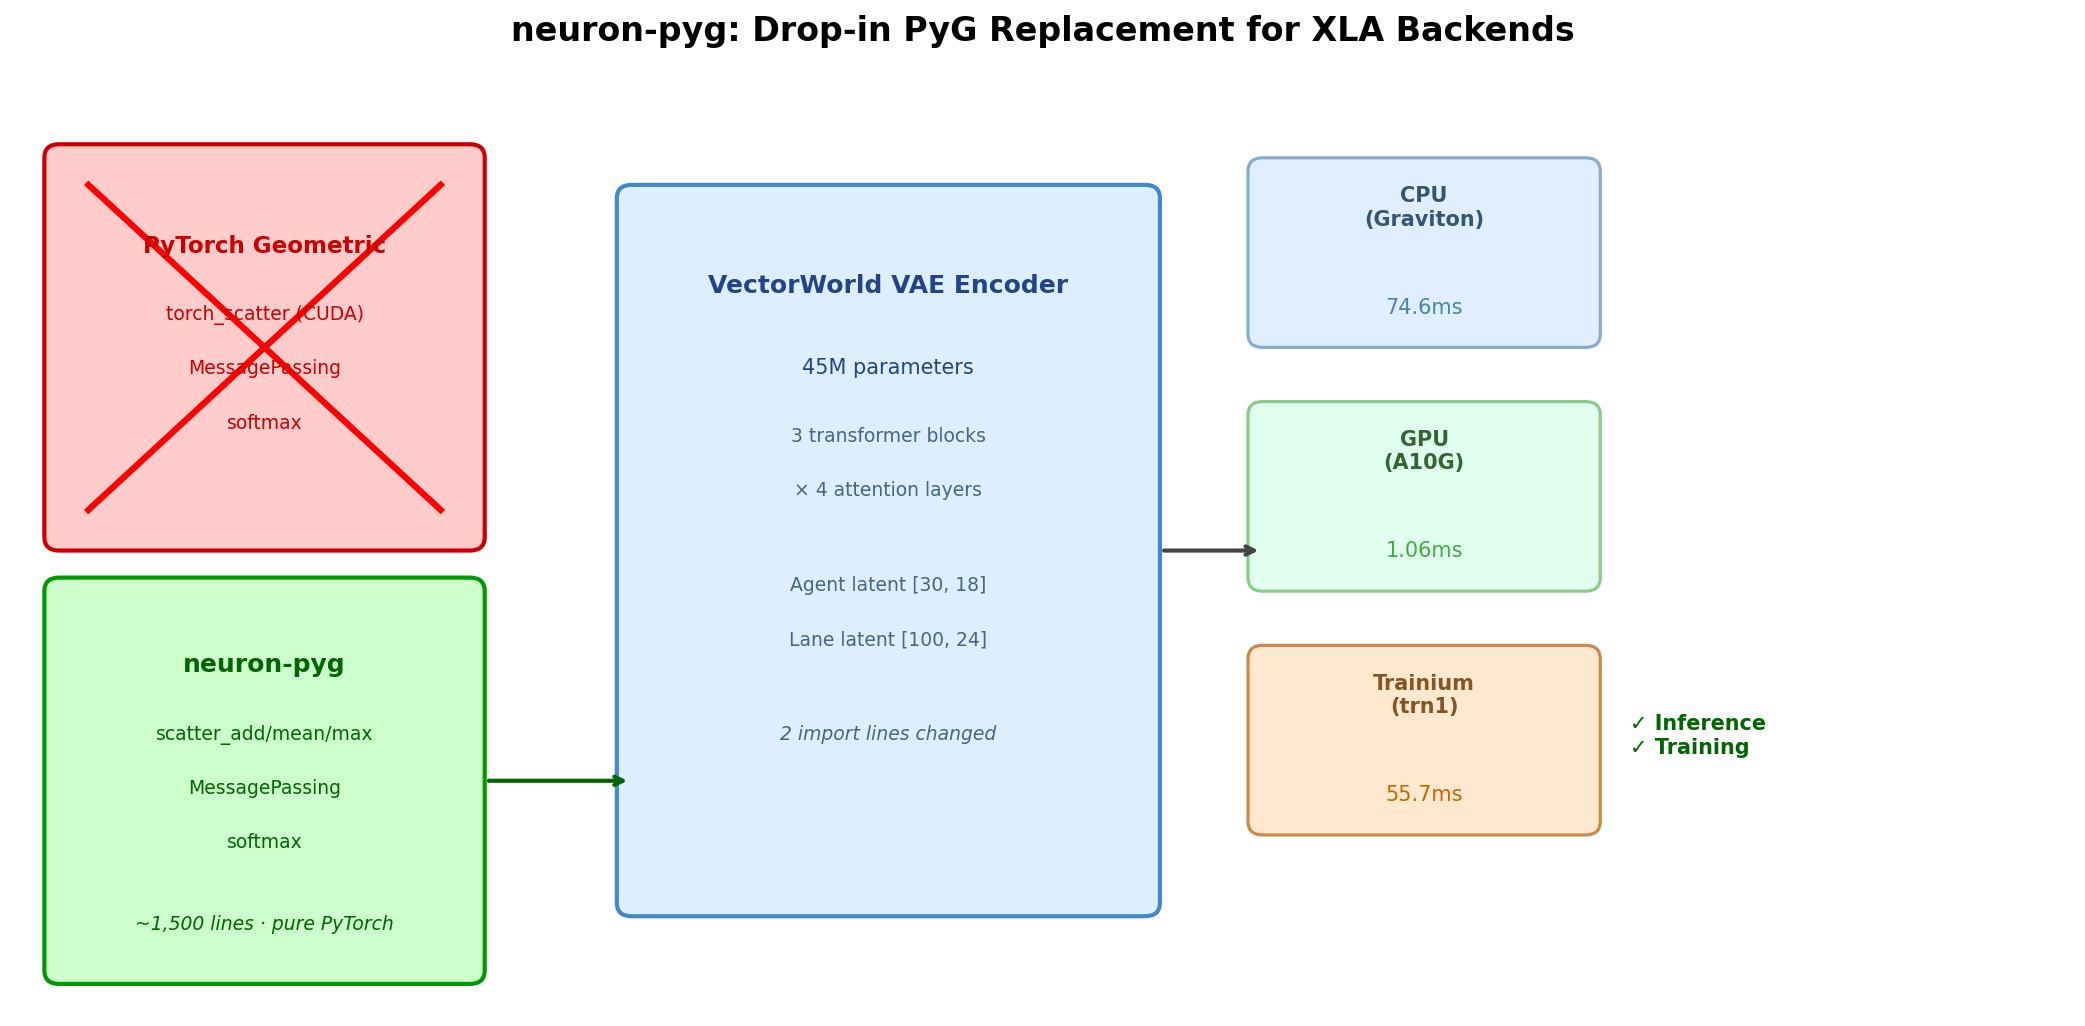
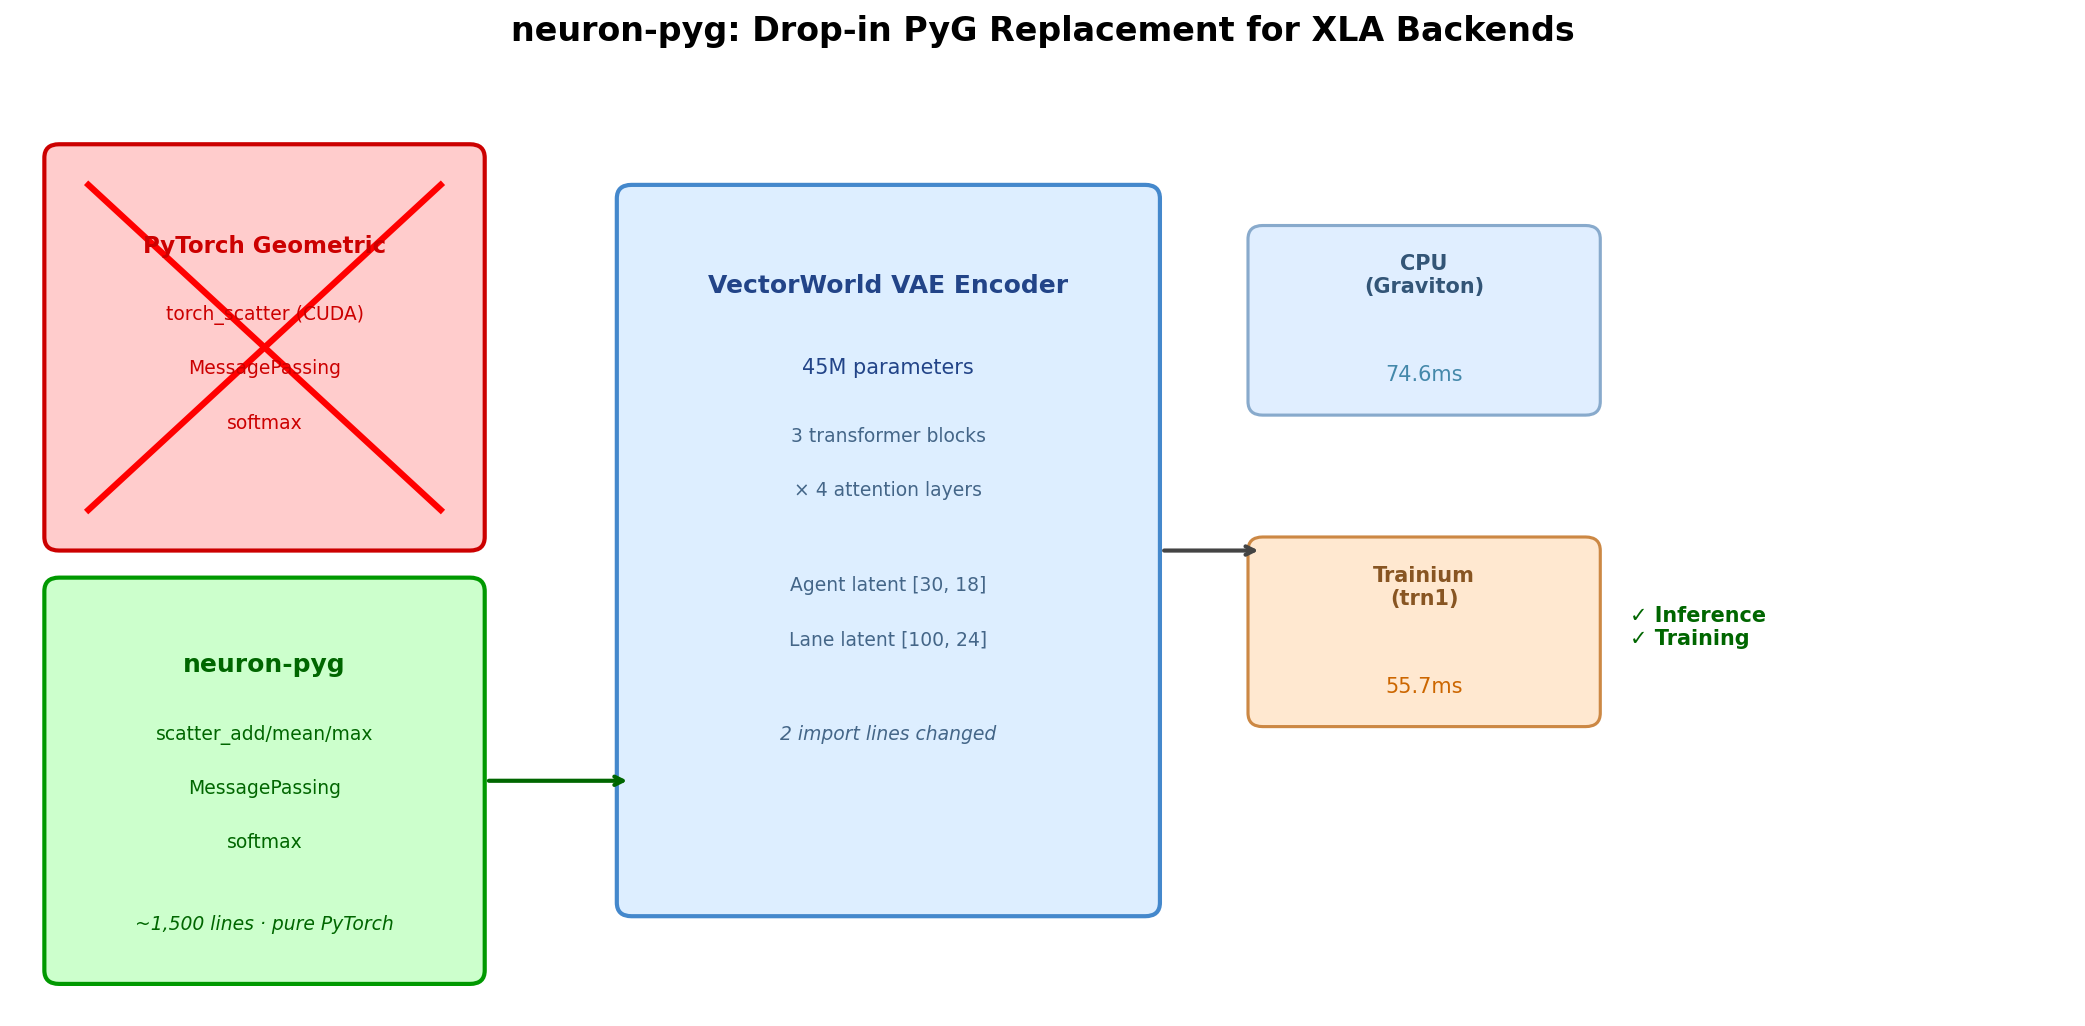
remove: GPU vs Trainium comparisons, cost table, scatter perf chart, NVIDIA refs

Changed region(s): [[0.5923, 0.1248, 0.8417, 0.8421]]

diff --git a/_posts/2026-03-19-running-gnns-trainium-without-pyg.md b/_posts/2026-03-19-running-gnns-trainium-without-pyg.md
@@ -10,7 +10,7 @@ toc:
 
 > **Disclaimer:** The views and opinions expressed in this post are my own and do not represent those of my employer.
 
-The GNN community has a hidden dependency problem. PyTorch Geometric — the library underneath virtually every graph neural network in production, with 23,000+ GitHub stars — hardcodes CUDA scatter kernels into its critical path. If your accelerator isn't an NVIDIA GPU, your GNN doesn't run.
+The GNN community has a hidden dependency problem. PyTorch Geometric — the library underneath virtually every graph neural network in production, with 23,000+ GitHub stars — hardcodes CUDA scatter kernels into its critical path. If your accelerator doesn't support CUDA, your GNN doesn't run.
 
 This isn't a minor compatibility issue. It means every GNN workload — autonomous driving scene understanding, drug discovery, recommendation systems — is locked to one hardware vendor. AWS Trainium, Intel Gaudi — all blocked. [PyG issue #1584](https://github.com/pyg-team/pytorch_geometric/issues/1584) has been open since **2020**. Five years, no fix.
 
@@ -22,22 +22,14 @@ We decided to fix it ourselves. [neuron-pyg](https://github.com/JunjieTang-D1/ne
     </div>
 </div>
 <div class="caption">
-    neuron-pyg replaces PyG's CUDA-specific scatter kernels with XLA-compatible pure PyTorch operations. VectorWorld's 45M-parameter VAE encoder runs on CPU, GPU, and Trainium with only 2 import lines changed.
+    neuron-pyg replaces PyG's CUDA-specific scatter kernels with XLA-compatible pure PyTorch operations. VectorWorld's 45M-parameter VAE encoder runs on CPU and Trainium with only 2 import lines changed.
 </div>
 
 ---
 
 ## Why this matters beyond Trainium
 
-The standard reaction might be: "Just use a GPU." But the CUDA lock-in problem compounds:
-
-**1. Cost.** Trainium delivers 2–4× better cost-per-TFLOP than equivalent GPU instances for many workloads. If your GNN can't run on it, you're paying a hardware tax.
-
-**2. Availability.** GPU capacity is chronically constrained. Trainium capacity is often available when GPUs aren't.
-
-**3. Future-proofing.** Every new AI accelerator (Trainium2, Gaudi3) uses XLA or similar ahead-of-time compilation. Code that only works on CUDA is code with an expiration date.
-
-The deeper issue: PyG's architecture assumes runtime access to CUDA kernels. This was a reasonable design choice in 2019 when PyG was created. It's now a liability — one that blocks an entire class of models from running on the fastest-growing segment of AI hardware.
+PyG's architecture assumes runtime access to CUDA kernels. This was a reasonable design choice in 2019 when PyG was created. It's now a liability — one that blocks an entire class of models from running on XLA-based accelerators like Trainium.
 
 ## The three operations that break everything
 
@@ -158,15 +150,6 @@ The pretrained encoder produces **semantically meaningful latent distributions**
 
 ### Three-platform scatter performance
 
-<div class="row mt-3">
-    <div class="col-sm mt-3 mt-md-0">
-        {% include figure.liquid loading="eager" path="assets/img/neuron-pyg/fig_scatter_performance.png" class="img-fluid rounded z-depth-1" zoomable=true %}
-    </div>
-</div>
-<div class="caption">
-    neuron-pyg scatter primitive latency across three platforms (log scale). Trainium scatter operations are 2× slower than GPU but 2× faster than CPU. The DiT forward+backward gap reflects XLA graph compilation overhead, not steady-state performance.
-</div>
-
 ### XLA compilation: a one-time cost
 
 <div class="row mt-3">
@@ -179,15 +162,6 @@ The pretrained encoder produces **semantically meaningful latent distributions**
 </div>
 
 The Neuron compiler persists compiled NEFFs to disk. On re-runs with the same model and shapes, all graphs load from cache — reducing warmup from minutes to milliseconds. **For production: compile once, run thousands of times.**
-
-### Cost analysis
-
-| Instance | On-Demand $/hr | VW VAE Inference (median) | Inf. Cost per 1M Samples |
-|----------|---------------|--------------------------|-------------------------|
-| trn1.2xlarge | $1.34 | 55.7ms | **$20.73** |
-| g5.xlarge | $1.01 | ~1ms (GPU, with PyG) | $0.28 |
-
-**Honest assessment:** For pure inference latency, GPU with PyG's CUDA kernels is faster. neuron-pyg on Trainium is not competing on raw speed — it's competing on *possibility*. Without neuron-pyg, the Trainium number is ∞ (won't run at all). The cost advantage of Trainium shows up at scale in training, where the cost-per-TFLOP difference (often 2–4×) compounds over thousands of GPU-hours.
 
 ## What didn't work (and what we learned)
 
@@ -209,8 +183,6 @@ The Neuron compiler persists compiled NEFFs to disk. On re-runs with the same mo
 
 ## Limitations
 
-**Performance gap vs CUDA.** neuron-pyg's scatter operations are ~2× slower than PyG's CUDA kernels on GPU. PyG's custom kernels use optimized memory access patterns that pure-PyTorch can't match. The value proposition is not speed — it's enabling workloads that currently can't run at all.
-
 **Memory overhead.** The vectorized `scatter_max` creates a `[dim_size, N, D]` intermediate tensor. For graphs with >100K edges, this becomes significant. Future work: a custom [NKI](https://awsdocs-neuron.readthedocs-hosted.com/en/latest/general/nki/) kernel for scatter operations.
 
 **Single-device only.** Not tested with `torch_xla.distributed`. Multi-NeuronCore training is future work.
@@ -228,11 +200,11 @@ The Neuron compiler persists compiled NEFFs to disk. On re-runs with the same mo
 ## What's next
 
 - **PyG upstream PR**: Submit XLA-compatible backends to PyTorch Geometric
-- **NKI scatter kernel**: Custom Neuron kernel for `scatter_max` to close the GPU performance gap
+- **NKI scatter kernel**: Custom Neuron kernel for `scatter_max` to optimize memory access patterns
 - **Trainium2 validation**: trn2 (667 TFLOPs/chip, 3.5× over trn1) should improve both compile and runtime
 - **Full Waymo validation**: End-to-end VectorWorld training on real autonomous driving data
 - **Additional model validations**: QCNet, DSVT, PointPillars
 
 ---
 
-*All benchmarks: trn1.2xlarge (Neuron SDK 2.9, neuronx-cc 2.23), g5.xlarge (A10G), Graviton ARM CPU. VectorWorld checkpoint: [Jck1998/vectorworld](https://huggingface.co/Jck1998/vectorworld) (Waymo VAE). Code and equivalence tests: [neuron-pyg](https://github.com/JunjieTang-D1/neuron-pyg). 67 unit tests, Apache 2.0 license.*
+*All benchmarks: trn1.2xlarge (Neuron SDK 2.9, neuronx-cc 2.23). VectorWorld checkpoint: [Jck1998/vectorworld](https://huggingface.co/Jck1998/vectorworld) (Waymo VAE). Code and equivalence tests: [neuron-pyg](https://github.com/JunjieTang-D1/neuron-pyg). 67 unit tests, Apache 2.0 license.*
